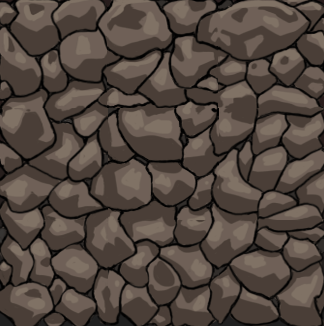
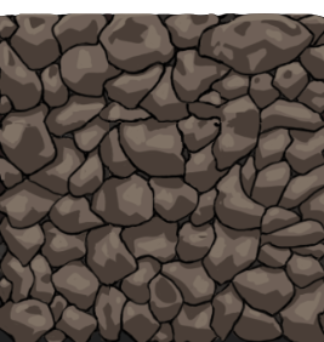
modified:   __pycache__/GameObject.cpython-39.pyc 	renamed:    lvl1platformImages/framestone.png -> lvl1platformImages/brownborderplatform.png 	renamed:    lvl1platformImages/brownstoneplatform.png -> lvl1platformImages/brownflatplatform.png 	new file:   lvl1platformImages/brownpillar.png 	new file:

diff --git a/main.py b/main.py
@@ -14,76 +14,62 @@ backgroundImage_LvL3_rect = backgroundImage_LvL3.get_rect()
 
 platForm_group1 = pygame.sprite.Group()
 platForm_floor = pygame.sprite.Group()
-# floor platform
-platForm_floor.add(GameObject.PlatForms(0, 500, "lvl1platformImages/largebrownstone.png"))
-platForm_floor.add(GameObject.PlatForms(324, 550, "lvl1platformImages/largebrownstone.png"))
-platForm_floor.add(GameObject.PlatForms(648, 550, "lvl1platformImages/largebrownstone.png"))
-platForm_floor.add(GameObject.PlatForms(972, 550, "lvl1platformImages/largebrownstone.png"))
-# orange platforms
-platForm_group1.add(GameObject.PlatForms(987, 337, "lvl1platformImages/mediumorangestone.png"))
-# sky platform 1
-platForm_group1.add(GameObject.PlatForms(180, 430, "lvl1platformImages/leftcornerorangestone.png"))
-platForm_group1.add(GameObject.PlatForms(220, 430, "lvl1platformImages/rightcornerorangestone.png"))
-# sky platform 2
-platForm_group1.add(GameObject.PlatForms(320, 360, "lvl1platformImages/leftcornerbrownstone.png"))
-platForm_group1.add(GameObject.PlatForms(360, 360, "lvl1platformImages/rightcornerbrownstone.png"))
-# brown platform
-platForm_group1.add(GameObject.PlatForms(500, 446, "lvl1platformImages/smallbrownstone.png"))
-platForm_group1.add(GameObject.PlatForms(500, 350, "lvl1platformImages/smallbrownstone.png"))
-#sky platform 4
-platForm_group1.add(GameObject.PlatForms(680, 350, "lvl1platformImages/leftcornerorangestone.png"))
-platForm_group1.add(GameObject.PlatForms(720, 350, "lvl1platformImages/rightcornerorangestone.png"))
-#sky platform 5 
-platForm_group1.add(GameObject.PlatForms(830, 380, "lvl1platformImages/leftcornerorangestone.png"))
-platForm_group1.add(GameObject.PlatForms(870, 380, "lvl1platformImages/rightcornerorangestone.png"))
-#sky platform 6
-platForm_group1.add(GameObject.PlatForms(730, 470, "lvl1platformImages/leftcornerbrownstone.png"))
-platForm_group1.add(GameObject.PlatForms(770, 470, "lvl1platformImages/rightcornerbrownstone.png"))
-#left sky flat platform
-platForm_group1.add(GameObject.PlatForms(14, 200, "lvl1platformImages/brownstoneplatform.png"))
-platForm_group1.add(GameObject.PlatForms(152, 200, "lvl1platformImages/brownstoneplatform.png"))
-platForm_group1.add(GameObject.PlatForms(289, 200, "lvl1platformImages/brownstoneplatform.png"))
-platForm_group1.add(GameObject.PlatForms(340, 200, "lvl1platformImages/brownstoneplatform.png"))
-#right sky flat platform
-platForm_group1.add(GameObject.PlatForms(1048, 180, "lvl1platformImages/brownstoneplatform.png"))
-platForm_group1.add(GameObject.PlatForms(910, 180, "lvl1platformImages/brownstoneplatform.png"))
-platForm_group1.add(GameObject.PlatForms(772, 180, "lvl1platformImages/brownstoneplatform.png"))
-platForm_group1.add(GameObject.PlatForms(634, 180, "lvl1platformImages/brownstoneplatform.png"))
-#frame stone for collisions
-#left side
-platForm_floor.add(GameObject.PlatForms(-1, 498, "lvl1platformImages/framestone.png"))
-platForm_floor.add(GameObject.PlatForms(-1, 361, "lvl1platformImages/framestone.png"))
-platForm_floor.add(GameObject.PlatForms(-1, 224, "lvl1platformImages/framestone.png"))
-platForm_floor.add(GameObject.PlatForms(-1, 87, "lvl1platformImages/framestone.png"))
-platForm_floor.add(GameObject.PlatForms(-1, -50, "lvl1platformImages/framestone.png"))
-#top side
-platForm_floor.add(GameObject.PlatForms(14, 0, "lvl1platformImages/brownstoneplatform.png"))
-platForm_floor.add(GameObject.PlatForms(151, 0, "lvl1platformImages/brownstoneplatform.png"))
-platForm_floor.add(GameObject.PlatForms(288, 0, "lvl1platformImages/brownstoneplatform.png"))
-platForm_floor.add(GameObject.PlatForms(425, 0, "lvl1platformImages/brownstoneplatform.png"))
-platForm_floor.add(GameObject.PlatForms(562, 0, "lvl1platformImages/brownstoneplatform.png"))
-platForm_floor.add(GameObject.PlatForms(699, 0, "lvl1platformImages/brownstoneplatform.png"))
-platForm_floor.add(GameObject.PlatForms(836, 0, "lvl1platformImages/brownstoneplatform.png"))
-platForm_floor.add(GameObject.PlatForms(973, 0, "lvl1platformImages/brownstoneplatform.png"))
-platForm_floor.add(GameObject.PlatForms(1110, 0, "lvl1platformImages/brownstoneplatform.png"))
-#right side
-platForm_floor.add(GameObject.PlatForms(1185, 13, "lvl1platformImages/framestone.png"))
-platForm_floor.add(GameObject.PlatForms(1185, 150, "lvl1platformImages/framestone.png"))
-platForm_floor.add(GameObject.PlatForms(1185, 198, "lvl1platformImages/framestone.png"))
-platForm_floor.add(GameObject.PlatForms(1185, 336, "lvl1platformImages/framestone.png"))
-platForm_floor.add(GameObject.PlatForms(1185, 473, "lvl1platformImages/framestone.png"))
-#platform on top of brown pillar
-platForm_group1.add(GameObject.PlatForms(520, 270, "lvl1platformImages/leftcornerbrownstone.png"))
-platForm_group1.add(GameObject.PlatForms(560, 270, "lvl1platformImages/rightcornerbrownstone.png"))
 
+# brown floor platforms
+platForm_floor.add(GameObject.PlatForms(0, 490, "lvl1platformImages/largebrownstone.png"))
+platForm_floor.add(GameObject.PlatForms(324, 545, "lvl1platformImages/largebrownstone.png"))
+platForm_floor.add(GameObject.PlatForms(648, 545, "lvl1platformImages/largebrownstone.png"))
+platForm_floor.add(GameObject.PlatForms(972, 545, "lvl1platformImages/largebrownstone.png"))
+# brown pillar
+platForm_group1.add(GameObject.PlatForms(500, 350, "lvl1platformImages/brownpillar.png"))
+# orange floor platform
+platForm_group1.add(GameObject.PlatForms(987, 337, "lvl1platformImages/largeorangestone.png"))
+# sky platform 1
+platForm_group1.add(GameObject.PlatForms(180, 430, "lvl1platformImages/orangeplatform.png"))
+# sky platform 2
+platForm_group1.add(GameObject.PlatForms(320, 360, "lvl1platformImages/brownplatform.png"))
+# sky platform 3
+platForm_group1.add(GameObject.PlatForms(680, 350, "lvl1platformImages/orangeplatform.png"))
+# sky platform 4
+platForm_group1.add(GameObject.PlatForms(830, 380, "lvl1platformImages/orangeplatform.png"))
+# sky platform 5
+platForm_group1.add(GameObject.PlatForms(720, 470, "lvl1platformImages/brownplatform.png"))
+# platform on top of brown pillar
+platForm_group1.add(GameObject.PlatForms(520, 270, "lvl1platformImages/brownplatform.png"))
+# left sky flat platform
+platForm_group1.add(GameObject.PlatForms(14, 200, "lvl1platformImages/leftskyplatform.png"))
+# right sky flat platform
+platForm_group1.add(GameObject.PlatForms(634, 180, "lvl1platformImages/rightskyplatform.png"))
+# left side border brown stone for collisions
+platForm_floor.add(GameObject.PlatForms(-1, 498, "lvl1platformImages/brownborderplatform.png"))
+platForm_floor.add(GameObject.PlatForms(-1, 361, "lvl1platformImages/brownborderplatform.png"))
+platForm_floor.add(GameObject.PlatForms(-1, 224, "lvl1platformImages/brownborderplatform.png"))
+platForm_floor.add(GameObject.PlatForms(-1, 87, "lvl1platformImages/brownborderplatform.png"))
+platForm_floor.add(GameObject.PlatForms(-1, -50, "lvl1platformImages/brownborderplatform.png"))
+# top side border brown stone for collisions
+platForm_floor.add(GameObject.PlatForms(14, 0, "lvl1platformImages/brownflatplatform.png"))
+platForm_floor.add(GameObject.PlatForms(151, 0, "lvl1platformImages/brownflatplatform.png"))
+platForm_floor.add(GameObject.PlatForms(288, 0, "lvl1platformImages/brownflatplatform.png"))
+platForm_floor.add(GameObject.PlatForms(425, 0, "lvl1platformImages/brownflatplatform.png"))
+platForm_floor.add(GameObject.PlatForms(562, 0, "lvl1platformImages/brownflatplatform.png"))
+platForm_floor.add(GameObject.PlatForms(699, 0, "lvl1platformImages/brownflatplatform.png"))
+platForm_floor.add(GameObject.PlatForms(836, 0, "lvl1platformImages/brownflatplatform.png"))
+platForm_floor.add(GameObject.PlatForms(973, 0, "lvl1platformImages/brownflatplatform.png"))
+platForm_floor.add(GameObject.PlatForms(1110, 0, "lvl1platformImages/brownflatplatform.png"))
+# right side border brown stone for collisions
+platForm_floor.add(GameObject.PlatForms(1185, 13, "lvl1platformImages/brownborderplatform.png"))
+platForm_floor.add(GameObject.PlatForms(1185, 150, "lvl1platformImages/brownborderplatform.png"))
+platForm_floor.add(GameObject.PlatForms(1185, 287, "lvl1platformImages/brownborderplatform.png"))
+platForm_floor.add(GameObject.PlatForms(1185, 424, "lvl1platformImages/brownborderplatform.png"))
+platForm_floor.add(GameObject.PlatForms(1185, 561, "lvl1platformImages/brownborderplatform.png"))
 
 screen = pygame.display.set_mode((backgroundImage_Lvl1_rect.width, backgroundImage_Lvl1_rect.height))
 screen_rect = screen.get_rect()
 
 # main character
-bobby = GameObject.Character(5, 5, 30, 440, "characterImages/bobbyR.png", screen, platForm_group1, platForm_floor)
+bobby = GameObject.Character(5, 5, 30, 450, "characterImages/bobbyR.png", screen, platForm_group1, platForm_floor)
 
-#shop buttons: 
+# shop buttons: 
 healthButtonRect = pygame.Rect(screen_rect.width/2 - 100,200,200,50)
 attackButtonRect = pygame.Rect(screen_rect.width/2 - 100,400,200,50)
 
